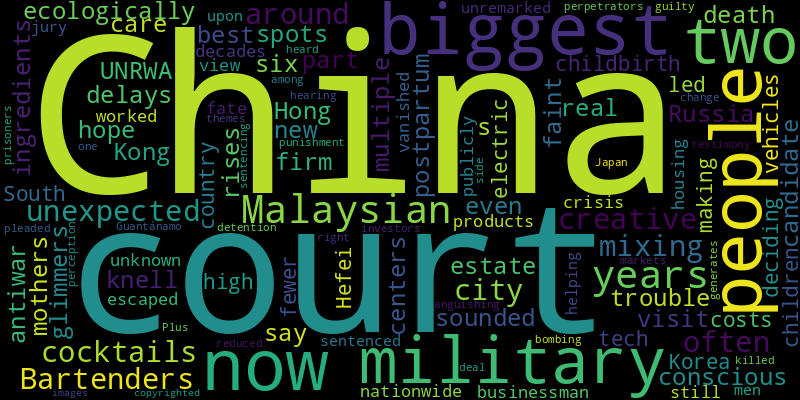
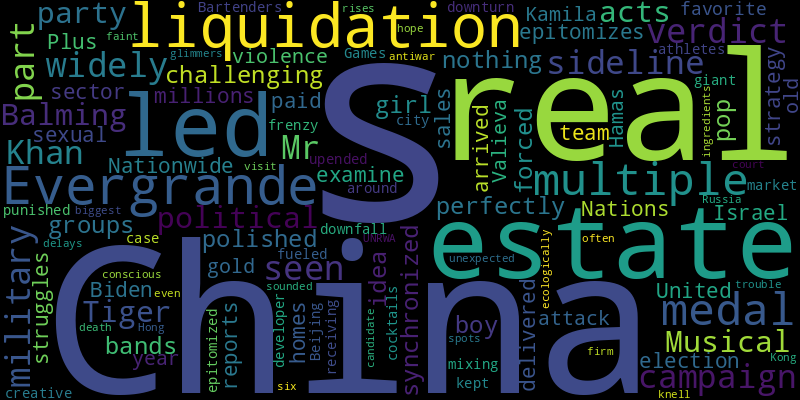
chore(bot): 🐐 auto commit

diff --git a/README.md b/README.md
@@ -2,41 +2,41 @@
 Auto RSS New York Times and Generate Word Cloud
 
 ## New York Times Global News
+* The United States, Israel, Egypt and Qatar sketched out a bare-bones framework for the proposed arrangement during weekend talks in Paris, the officials said.
+* After defending the former South African president and party leader during a slew of corruption scandals, the country’s powerful governing party punished him for endorsing the opposition.
+* Liliana Segre, who has become Italy’s conscience on the Holocaust, says she is pessimistic in the face of rising anti-Semitism.
+* A team from the United Nations has arrived in Israel to examine multiple reports of sexual violence during the Hamas-led attack.
+* Amid crumbling U.S. support for Ukraine and Donald Trump’s rising candidacy, European nations and NATO are making plans to take on Russia by themselves.
+* The authorities warned residents to brace for disruptions as farmers converged on the capital to press a wide range of grievances.
+* The British government said it would act after surveys showed that the number of young people trying vapes had risen sharply.
+* Kamila Valieva, once a 15-year-old gold medal favorite, was punished in a case that upended the Beijing Games, and kept other athletes from receiving medals.
+* The accusation, made in London, Ontario, in 2018, has put the country’s hockey organization into turmoil and outraged the public.
 * The very weapons that Israeli forces have used to enforce a blockade of Gaza are now being used against them.
-* Voting took place as the alliance’s newest member grapples with concerns about potential aggression from its neighbor Russia.
-* As Haiti sank into gang-dominated chaos, Kenya promised to send officers to pacify the streets. Now a court has rejected that plan, and there does not seem to be another.
-* A proposed bill on mobilization has become the focus of a debate as more men dodge the draft and calls rise to demobilize exhausted soldiers.
-* Two women from an environmental group threw pumpkin-colored soup at the artwork, which is behind bulletproof glass at the Louvre and did not appear to sustain damage.
-* The Islamic State has taken responsibility for the attack, according to the SITE intelligence group.
-* More than two dozen U.S. service members were injured in the strike, which underscored the growing turmoil in the region since the Hamas-led attack on Israel in October.
-* The sanctions were imposed after soldiers seized power in Mali, Niger and Burkina Faso.
-* The case comes as the Kyiv government tries to emphasize its focus on fighting graft.
-* A written draft agreement calls for the phased release of captives held by Hamas in exchange for a cessation in Israel’s military offensive for about two months.
 
 ![Global](./global.png)
 ## New York Times United States News
-* But the hearing officer said the State Board of Elections should let the courts decide whether Mr. Trump’s conduct disqualified him from the ballot.
-* Authorities have identified the last known person to have died in the wildfire. Young and old, those lost won’t be forgotten.
-* Gina Swoboda, a hard-right Trump supporter, was picked to replace Jeff DeWit, who resigned after the release of a recording that appeared to suggest a bribe to Kari Lake.
-* Recent Ivy League dramas have made women leaders in academia wonder how far they’ve really come.
-* Plus, a new therapy lets an 11-year-old hear for the first time.
-* Watching Donald Trump ascend, the newly energized Biden campaign is aiming to make the general election all about him. It’s also hoping for some big endorsements.
-* The current court is not out of step with earlier ones in how often it overturns decisions. But it is more apt to do so to reach conservative results.
-* In recent weeks, buses have been bypassing the city for its smaller outlying communities, where people are unaccustomed to the flow of newcomers.
-* Amid crumbling U.S. support for Ukraine and Donald Trump’s rising candidacy, European nations and NATO are making plans to take on Russia by themselves.
-* The former House speaker suggested without offering evidence that some protesters calling for a cease-fire in Gaza had financial ties to Russia and Vladimir V. Putin.
+* Six victims were found in a remote area of San Bernardino County about 90 miles northeast of Los Angeles. The authorities believe the shooting deaths stemmed from a dispute over illegal marijuana.
+* Professors at the University of Pennsylvania have begun to organize, fearing what they view as a plan by the billionaire Marc Rowan to upend academic freedom.
+* The judge said that a court clerk had made “foolish and fleeting” comments during Mr. Murdaugh’s trial, but that they did not affect the jury’s verdict that he murdered his wife and son.
+* Donald Trump’s lawyers want Ms. Willis disqualified from the Georgia election case over accusations that she had a romantic relationship with a subordinate. A judge will decide what happens next.
+* Republicans are expected to push through articles of impeachment charging the homeland security secretary with refusing to uphold the law and breaching the public’s trust.
+* The flood of TV and digital spots in battleground states is set to be the largest single purchase of political advertising by a super PAC in U.S. history, according to the group, Future Forward.
+* Dale Holloway, 41, was sentenced Monday on several charges, including attempted murder, for opening fire at a New Hampshire church in 2019 in what the authorities called a revenge shooting.
+* Jatonia Bryant, 23, had been held at a jail in Pine Bluff, Ark., on a capital murder charge before he and another inmate fled last week, the authorities said. The other escapee was caught Thursday.
+* The company, which operated the train that derailed in East Palestine, Ohio, is the first major freight railroad to join a federal program that allows workers to report safety issues.
+* Plus: A Taylor Swift endorsement is Biden’s wildest dream.
 
 ![US](./usnews.png)
 ## New York Times Asia News
+* The verdict is widely seen as part of a military-led campaign to sideline Mr. Khan’s political party.
+* Musical acts like Balming Tiger are challenging the idea that K-pop is nothing but polished, perfectly synchronized boy bands and girl groups.
+* The forced liquidation of China Evergrande epitomizes the sector’s struggles: Nationwide, sales are down and millions of homes have been paid for but not delivered.
+* Plus, Evergrande’s liquidation and Biden’s election strategy.
+* A team from the United Nations has arrived in Israel to examine multiple reports of sexual violence during the Hamas-led attack.
+* Kamila Valieva, once a 15-year-old gold medal favorite, was punished in a case that upended the Beijing Games, and kept other athletes from receiving medals.
+* The giant real estate developer epitomized China’s real estate frenzy, and its downfall fueled the market’s downturn.
 * Bartenders around the city are mixing up creative cocktails with unexpected, and often ecologically conscious, ingredients. Here are six spots to visit.
 * After multiple delays and even a few faint glimmers of hope, a Hong Kong court has sounded the death knell for what was once China’s biggest real estate firm.
 * Also, the UNRWA is in trouble and an antiwar candidate rises in Russia.
-* Some new mothers say postpartum care centers are the best part of childbirth in South Korea, where fewer people are deciding to have children because of high costs.
-* Hefei has led the country in making electric vehicles and other tech products, but it still has not escaped a nationwide housing crisis.
-* A businessman who had worked in China for decades vanished from view in 2018, but his fate had been unknown, and publicly unremarked upon, until now.
-* A military jury sentenced two Malaysian men to 23 years for helping perpetrators of the bombing that killed 202 people, but a side deal reduced the punishment.
-* A change in perception among investors about China and Japan is one of the biggest themes in the markets right now.
-* A Guantánamo military court heard anguishing testimony at the sentencing hearing for two Malaysian prisoners who pleaded guilty after 20 years of detention.
-* Plus, when A.I. generates copyrighted images.
 
 ![Asian](./asian.png)
